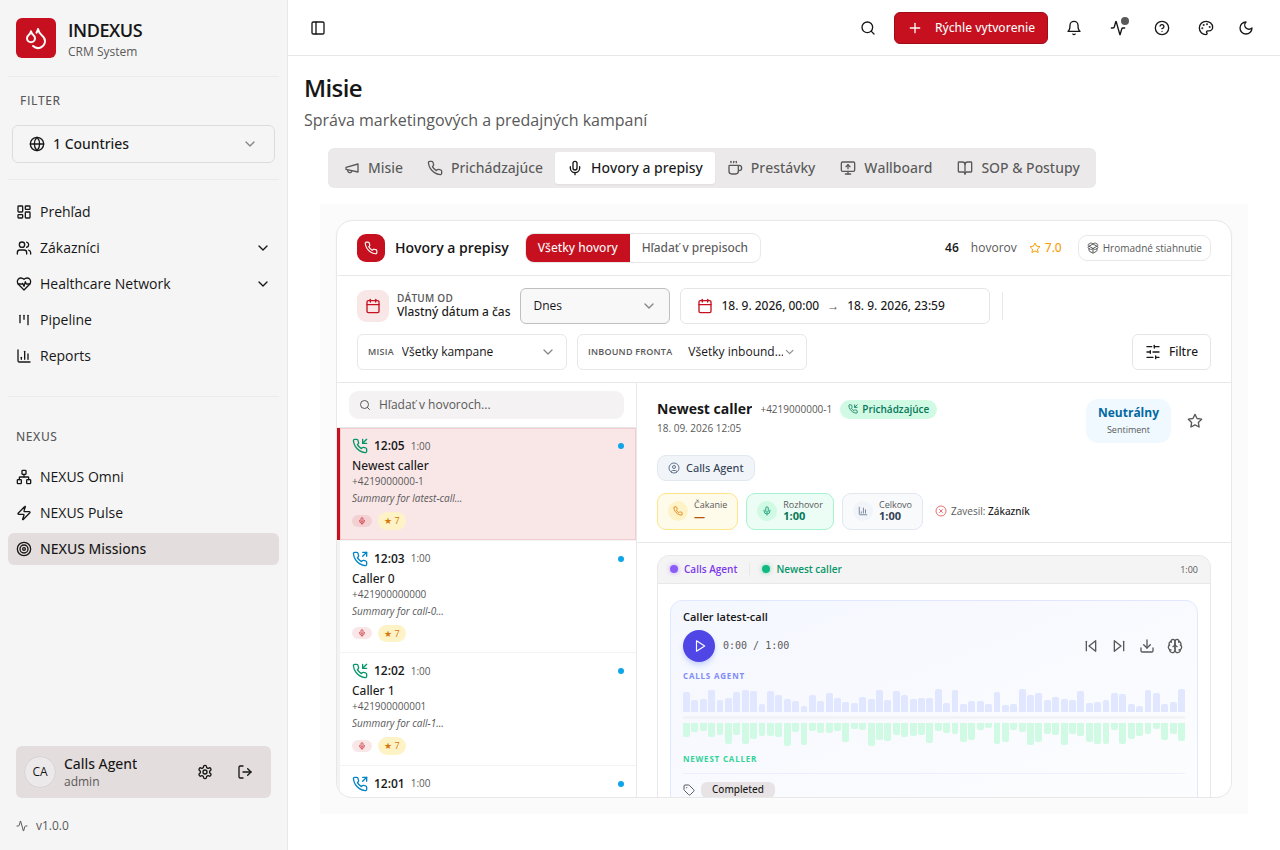
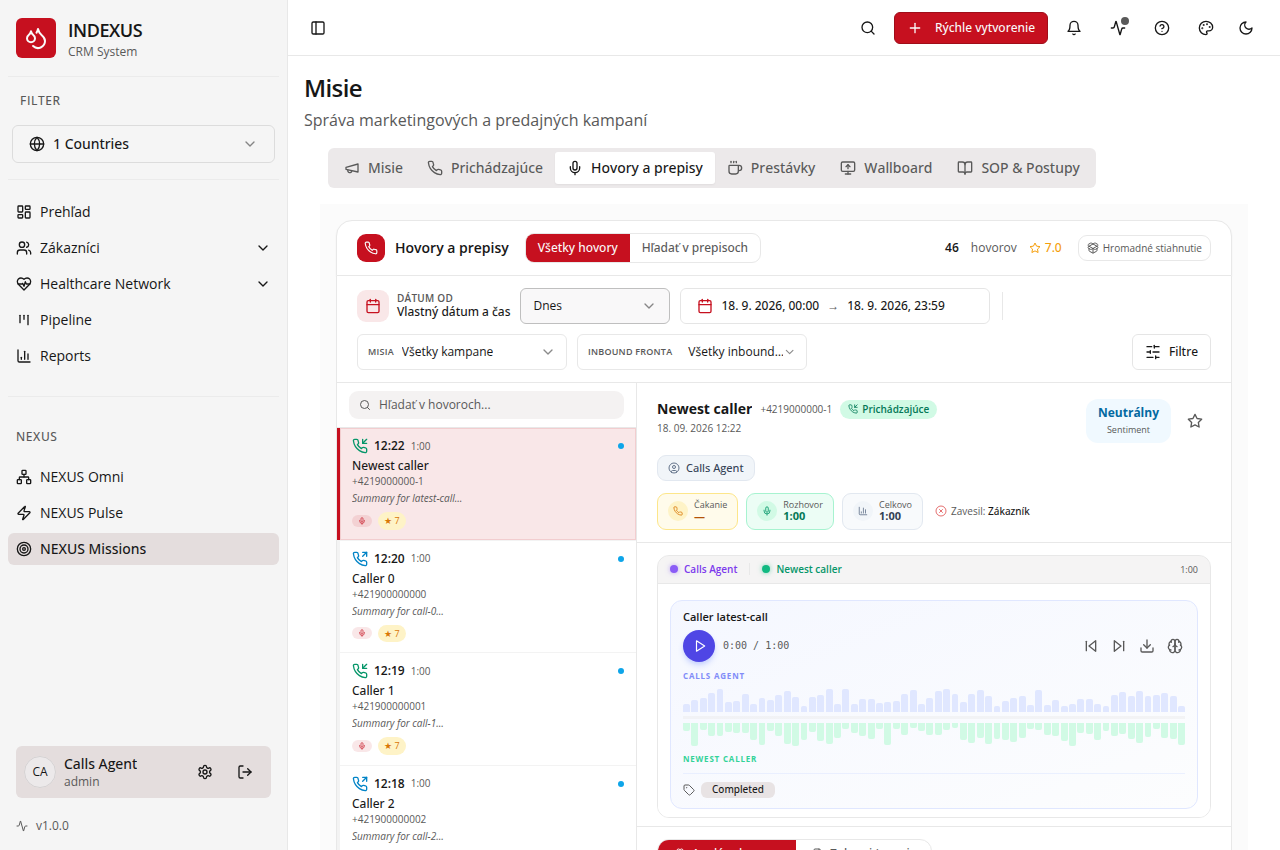
Implement and test call transcript search functionality
Replit-Commit-Author: Agent

diff --git a/client/src/pages/transcript-search.tsx b/client/src/pages/transcript-search.tsx
@@ -298,7 +298,7 @@ function AnalysisDetail({ log, ca, locale, searchText, onImportantToggle }: { lo
   const handleExport = (fmt: string) => { if (rec?.id) window.open(`/api/call-recordings/${rec.id}/export-transcript?format=${fmt}`, "_blank"); };
 
   return (
-    <div className="flex flex-col h-full" data-testid={`analysis-detail-${log.id}`}>
+    <div className="flex w-full min-w-0 flex-col" data-testid={`analysis-detail-${log.id}`}>
 
       {/* ── Header ── */}
       <div className="px-5 pt-4 pb-3 border-b bg-background shrink-0 space-y-3">
@@ -479,7 +479,7 @@ function AnalysisDetail({ log, ca, locale, searchText, onImportantToggle }: { lo
             </div>
           </div>
 
-          <ScrollArea className="flex-1">
+          <div data-testid={`analysis-content-${log.id}`}>
             <div className="px-5 py-4 space-y-3 pb-6">
               {tab === "analysis" && (
                 <>
@@ -651,7 +651,7 @@ function AnalysisDetail({ log, ca, locale, searchText, onImportantToggle }: { lo
                 <div className="text-center py-8 text-muted-foreground text-sm">{ca.noTranscript || "Prepis nie je k dispozícii"}</div>
               )}
             </div>
-          </ScrollArea>
+          </div>
         </>
       ) : rec?.analysisStatus === "processing" ? (
         <div className="flex-1 flex items-center justify-center text-muted-foreground">
@@ -955,17 +955,32 @@ export function TranscriptSearchContent() {
   useEffect(() => {
     const pane = detailPaneRef.current;
     if (!pane || !selectedCallLogId || !mobileDetailOpen) return;
-    pane.scrollTop = 0;
-    const frame = window.requestAnimationFrame(() => {
-      if (!window.matchMedia("(max-width: 767px)").matches) return;
-      pane.querySelector<HTMLElement>(`[data-testid="player-${selectedCallLogId}"]`)
-        ?.scrollIntoView({ block: "start", inline: "nearest" });
-    });
-    return () => window.cancelAnimationFrame(frame);
+    const player = pane.querySelector<HTMLElement>(`[data-testid="player-${selectedCallLogId}"]`);
+    if (!player) {
+      pane.scrollIntoView({ block: "start", inline: "nearest" });
+      return;
+    }
+    // Recording content loads asynchronously. Reveal its full size once ready,
+    // then leave scrolling under the user's control (including during polling).
+    let frame = 0;
+    const reveal = () => {
+      window.cancelAnimationFrame(frame);
+      frame = window.requestAnimationFrame(() => {
+        player.scrollIntoView({ block: "nearest", inline: "nearest" });
+        if (player.querySelector('[data-testid^="btn-play-recording-"]')) observer.disconnect();
+      });
+    };
+    const observer = new ResizeObserver(reveal);
+    observer.observe(player);
+    reveal();
+    return () => {
+      observer.disconnect();
+      window.cancelAnimationFrame(frame);
+    };
   }, [mobileDetailOpen, selectedCallLogId]);
 
   return (
-    <div className="flex h-[calc(100dvh-15rem)] min-h-0 w-full max-w-full flex-col overflow-hidden bg-muted/20 px-2 py-3 sm:px-4 sm:py-4" data-testid="calls-transcripts-page">
+    <div className={`flex ${activeTab === "browse" ? "min-h-[calc(100dvh-15rem)]" : "h-[calc(100dvh-15rem)] overflow-hidden"} w-full max-w-full flex-col bg-muted/20 px-2 py-3 sm:px-4 sm:py-4`} data-testid="calls-transcripts-page">
 
       {/* ── Top header ── */}
       <div className={`${mobileDetailOpen ? "hidden md:flex" : "flex"} flex-wrap items-center gap-3 overflow-hidden rounded-t-2xl border border-border bg-background px-3 py-3 shadow-sm sm:px-5`} data-testid="calls-header">
@@ -1189,11 +1204,11 @@ export function TranscriptSearchContent() {
 
       {/* ── Browse mode ── */}
       {activeTab === "browse" && (
-        <div className="flex flex-1 min-h-0 max-w-full overflow-hidden rounded-b-2xl border-x border-b border-border">
+        <div className="flex items-start min-w-0 max-w-full rounded-b-2xl border-x border-b border-border">
 
           {/* Left: list */}
           <div
-            className={`${mobileDetailOpen ? "hidden md:flex" : "flex"} w-full min-w-0 shrink-0 flex-col bg-background md:w-[300px] md:max-w-[42vw] md:border-r`}
+            className={`${mobileDetailOpen ? "hidden md:flex" : "flex"} sticky top-4 h-[calc(100dvh-20rem)] min-h-80 w-full min-w-0 shrink-0 flex-col rounded-bl-2xl bg-background md:w-[300px] md:max-w-[42vw] md:border-r`}
             data-testid="calls-list-pane"
           >
             {/* Search + filter */}
@@ -1238,7 +1253,7 @@ export function TranscriptSearchContent() {
           {/* Right: detail */}
           <div
             ref={detailPaneRef}
-            className={`${mobileDetailOpen ? "flex" : "hidden md:flex"} min-h-0 min-w-0 flex-1 flex-col overflow-y-auto overflow-x-hidden overscroll-contain bg-background md:overflow-hidden`}
+            className={`${mobileDetailOpen ? "flex" : "hidden md:flex"} min-w-0 flex-1 flex-col rounded-br-2xl bg-background`}
             data-testid="call-detail-pane"
           >
             <div className="sticky top-0 z-20 shrink-0 border-b bg-background px-2 py-1.5 md:hidden">

diff --git a/e2e/calls-transcripts.spec.ts b/e2e/calls-transcripts.spec.ts
@@ -179,11 +179,8 @@ test("calls refresh on reopen and focus while preserving selection and keeping d
   await expect(page.getByTestId("call-row-latest-call")).toHaveCount(1);
   await expect(page.getByTestId("analysis-detail-latest-call")).toBeVisible();
 
-  const paneFitsViewport = await page.getByTestId("call-detail-pane").evaluate(element => {
-    const rect = element.getBoundingClientRect();
-    return rect.top >= 0 && rect.bottom <= window.innerHeight + 1 && element.scrollWidth <= element.clientWidth + 1;
-  });
-  expect(paneFitsViewport).toBe(true);
+  expect(await page.getByTestId("call-detail-pane").evaluate(element =>
+    element.scrollWidth <= element.clientWidth + 1)).toBe(true);
   await page.screenshot({ path: "screenshots/calls-transcripts-desktop.png", animations: "disabled" });
 
   await page.setViewportSize({ width: 390, height: 844 });
@@ -202,5 +199,45 @@ test("calls refresh on reopen and focus while preserving selection and keeping d
   await page.getByTestId("button-mobile-call-list").click();
   await expect(page.getByTestId("calls-list-pane")).toBeVisible();
   await expect(page.getByTestId("call-detail-pane")).toBeHidden();
+  expect(fixture.errors).toEqual([]);
+});
+
+test("short desktop window exposes the entire player and transcript without clipped ancestors", async ({ page }) => {
+  await page.setViewportSize({ width: 1024, height: 636 });
+  const fixture = await openCalls(page);
+  await page.getByTestId("call-row-call-40").click();
+  await expect(page.getByTestId("btn-play-recording-recording-call-40")).toBeVisible();
+  const player = page.getByTestId("player-call-40");
+
+  const fullyVisible = () => player.evaluate(element => {
+    const box = element.getBoundingClientRect();
+    if (box.top < 0 || box.bottom > innerHeight + 1 || box.left < 0 || box.right > innerWidth + 1) return false;
+    for (let parent = element.parentElement; parent; parent = parent.parentElement) {
+      const style = getComputedStyle(parent);
+      if (/(hidden|auto|scroll|clip)/.test(style.overflowY)) {
+        const clip = parent.getBoundingClientRect();
+        if (box.top < clip.top - 1 || box.bottom > clip.bottom + 1) return false;
+      }
+    }
+    return true;
+  });
+  await expect.poll(fullyVisible).toBe(true);
+  await page.screenshot({ path: "screenshots/calls-transcripts-short-desktop.png", animations: "disabled" });
+
+  const listOffset = await page.getByTestId("calls-list-scroll").evaluate(element => element.scrollTop);
+  expect(listOffset).toBeGreaterThan(0);
+  await page.getByTestId("tab-transcript-call-40").click();
+  const transcript = page.getByTestId("analysis-content-call-40");
+  await transcript.scrollIntoViewIfNeeded();
+  await expect(transcript).toContainText("Transcript for call-40.");
+  await expect(transcript).toBeInViewport({ ratio: 1 });
+  expect(await page.getByTestId("calls-list-scroll").evaluate(element => element.scrollTop)).toBe(listOffset);
+
+  await page.getByTestId("call-row-call-39").click();
+  await expect(page.getByTestId("btn-play-recording-recording-call-39")).toBeVisible();
+  await expect.poll(() => page.getByTestId("player-call-39").evaluate(element => {
+    const box = element.getBoundingClientRect();
+    return box.top >= 0 && box.bottom <= innerHeight + 1;
+  })).toBe(true);
   expect(fixture.errors).toEqual([]);
 });

diff --git a/.agents/memory/call-player-visibility.md b/.agents/memory/call-player-visibility.md
@@ -1,0 +1,10 @@
+---
+name: Call player visibility
+description: User-rejected player clipping and the required short-window verification.
+---
+
+Do not constrain Calls & Transcripts to a small fixed-height detail viewport just to keep both columns on screen. The entire player, waveform, lower controls, and transcript must remain reachable; a deep list selection must reveal the selected player without requiring a manual return to the top.
+
+**Why:** The user rejected the bounded two-pane layout because it cut off the player on a short desktop window. Tests passed by checking partial intersection and the play button, missing the inaccessible lower content.
+
+**How to apply:** Preserve natural detail height and independent list scrolling. Verify the complete player rectangle against the viewport and every clipping ancestor at a short desktop height, not merely a visible play button or a partially intersecting container. Also verify reaching the transcript and selecting another deep-list call after scrolling. Account for the recording loading asynchronously.

diff --git a/.agents/memory/MEMORY.md b/.agents/memory/MEMORY.md
@@ -100,3 +100,4 @@
 - [Mission contact visibility boundaries](mission-contact-visibility-boundaries.md) — representative-only scope must cover every agent queue; omitted manager-owned settings must be preserved.
 - [Moving pages into nested settings tabs](nested-settings-page-moves.md) — preserve canonical tab URLs through legacy routes, OAuth callbacks, cleanup, permissions, and mobile embedding.
 - [Forwarded call history](forwarded-call-canonical-history.md) — mobile forwarding needs server-owned canonical history; reports cannot depend on sessions or recording, and caller Up is not callee answer.
+- [Call player visibility](call-player-visibility.md) — never trade full player access for fixed pane height; verify complete bounds and transcript access on short desktop windows.
